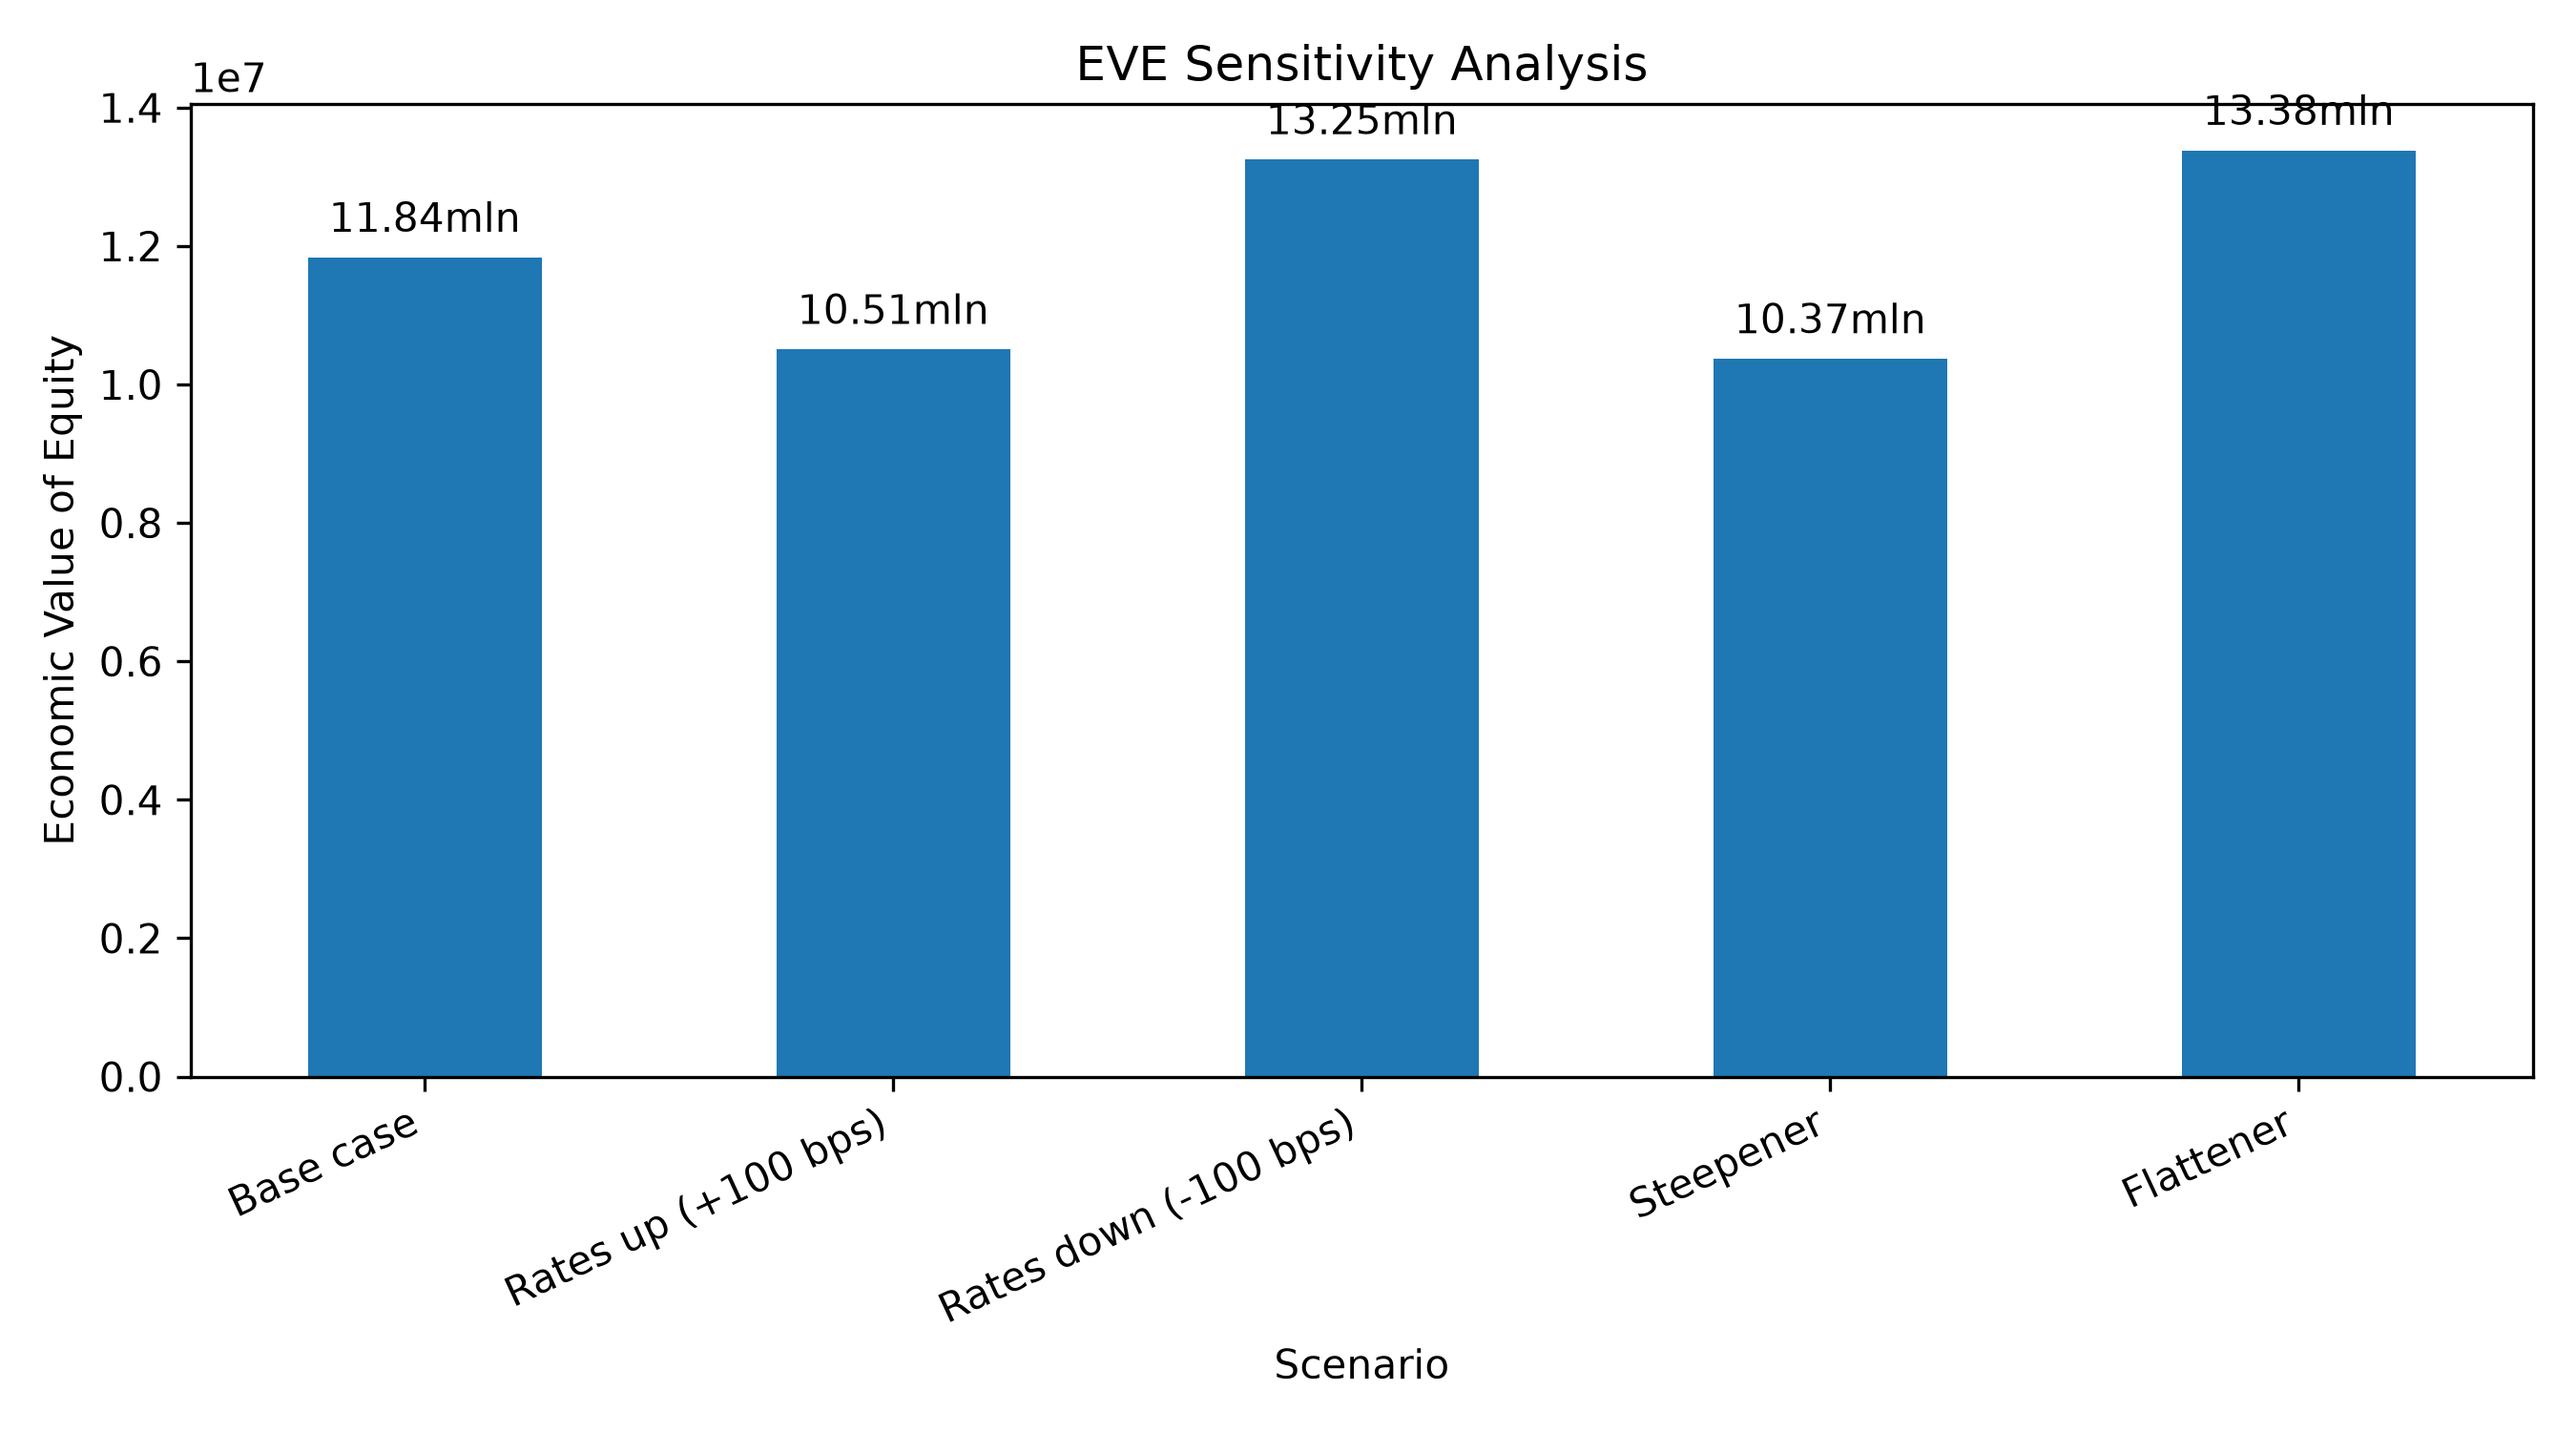
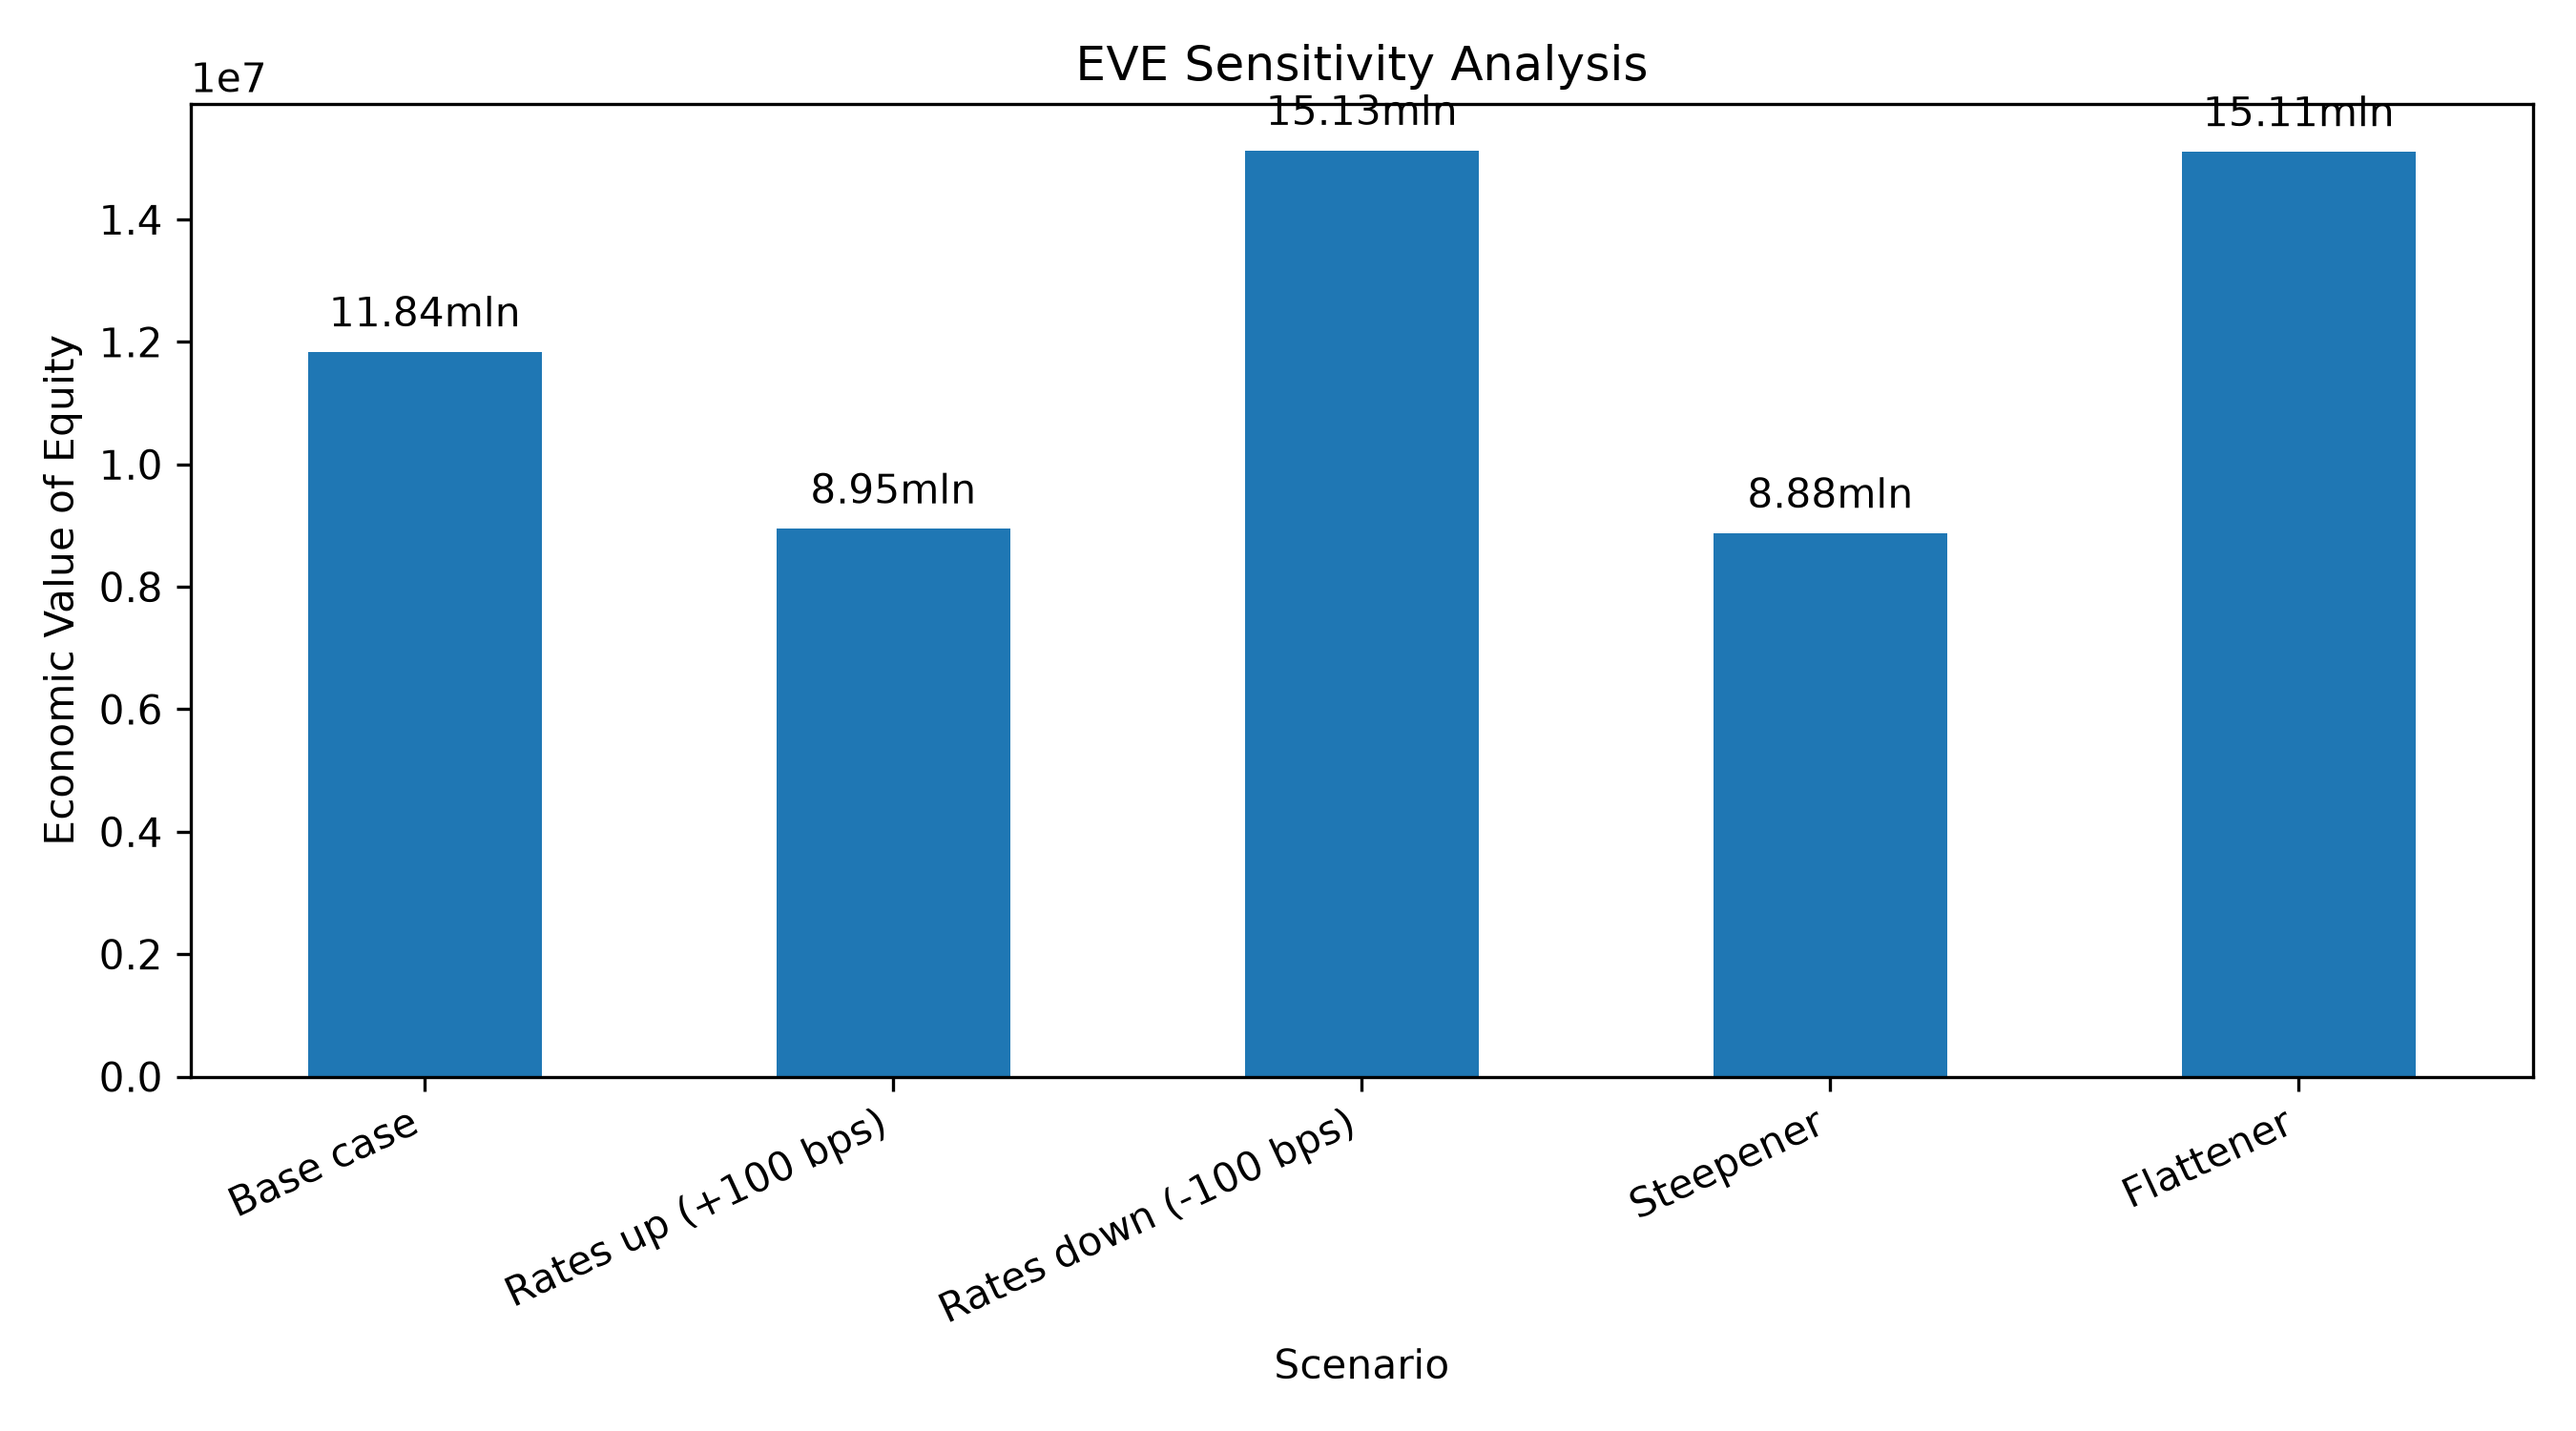
Update EVE shocks and project documentation

diff --git a/main.py.py b/main.py.py
@@ -89,14 +89,14 @@ for scenario, shocks in scenarios.items():
 results_df = pd.DataFrame(results)
 
 ##Procedure for EVE
-capital = 34_000_000
+capital = 100_000_000
 
 eve_shocks = {
     "Base case": (0.00, 0.00),
-    "Rates up (+100 bps)": (0.01, 0.01),
-    "Rates down (-100 bps)": (-0.01, -0.01),
-    "Steepener": (-0.01, 0.01),
-    "Flattener": (0.01, -0.01)
+    "Rates up (+100 bps)": (0.0225, 0.0225),
+    "Rates down (-100 bps)": (-0.0225, -0.0225),
+    "Steepener": (-0.035, 0.02),
+    "Flattener": (0.035, -0.02)
 }
 
 eve_results = []

diff --git a/readme.md b/readme.md
@@ -36,14 +36,14 @@ This metric illustrates the potential significance of changes in economic value 
 
 ## Interest Rate Scenarios
 
-The model includes five scenarios:
+The model for EVE includes five scenarios:
 
 Scenario| Description
 Base Case| Reference scenario without an interest rate shock
-Rates Up (+100 bps)| Parallel upward shift in interest rates
-Rates Down (-100 bps)| Parallel downward shift in interest rates
-Steepener| Short-term rates decrease while long-term rates increase
-Flattener| Short-term rates increase while long-term rates decrease
+Rates Up (+225 bps)| Parallel upward shift in interest rates
+Rates Down (-225 bps)| Parallel downward shift in interest rates
+Steepener (-350 and -200 bps)| Short-term rates decrease while long-term rates increase
+Flattener (350 and 200 bps)| Short-term rates increase while long-term rates decrease
 
 The non-parallel scenarios apply different shocks to short- and long-term rates to illustrate changes in the shape of the yield curve.
 
